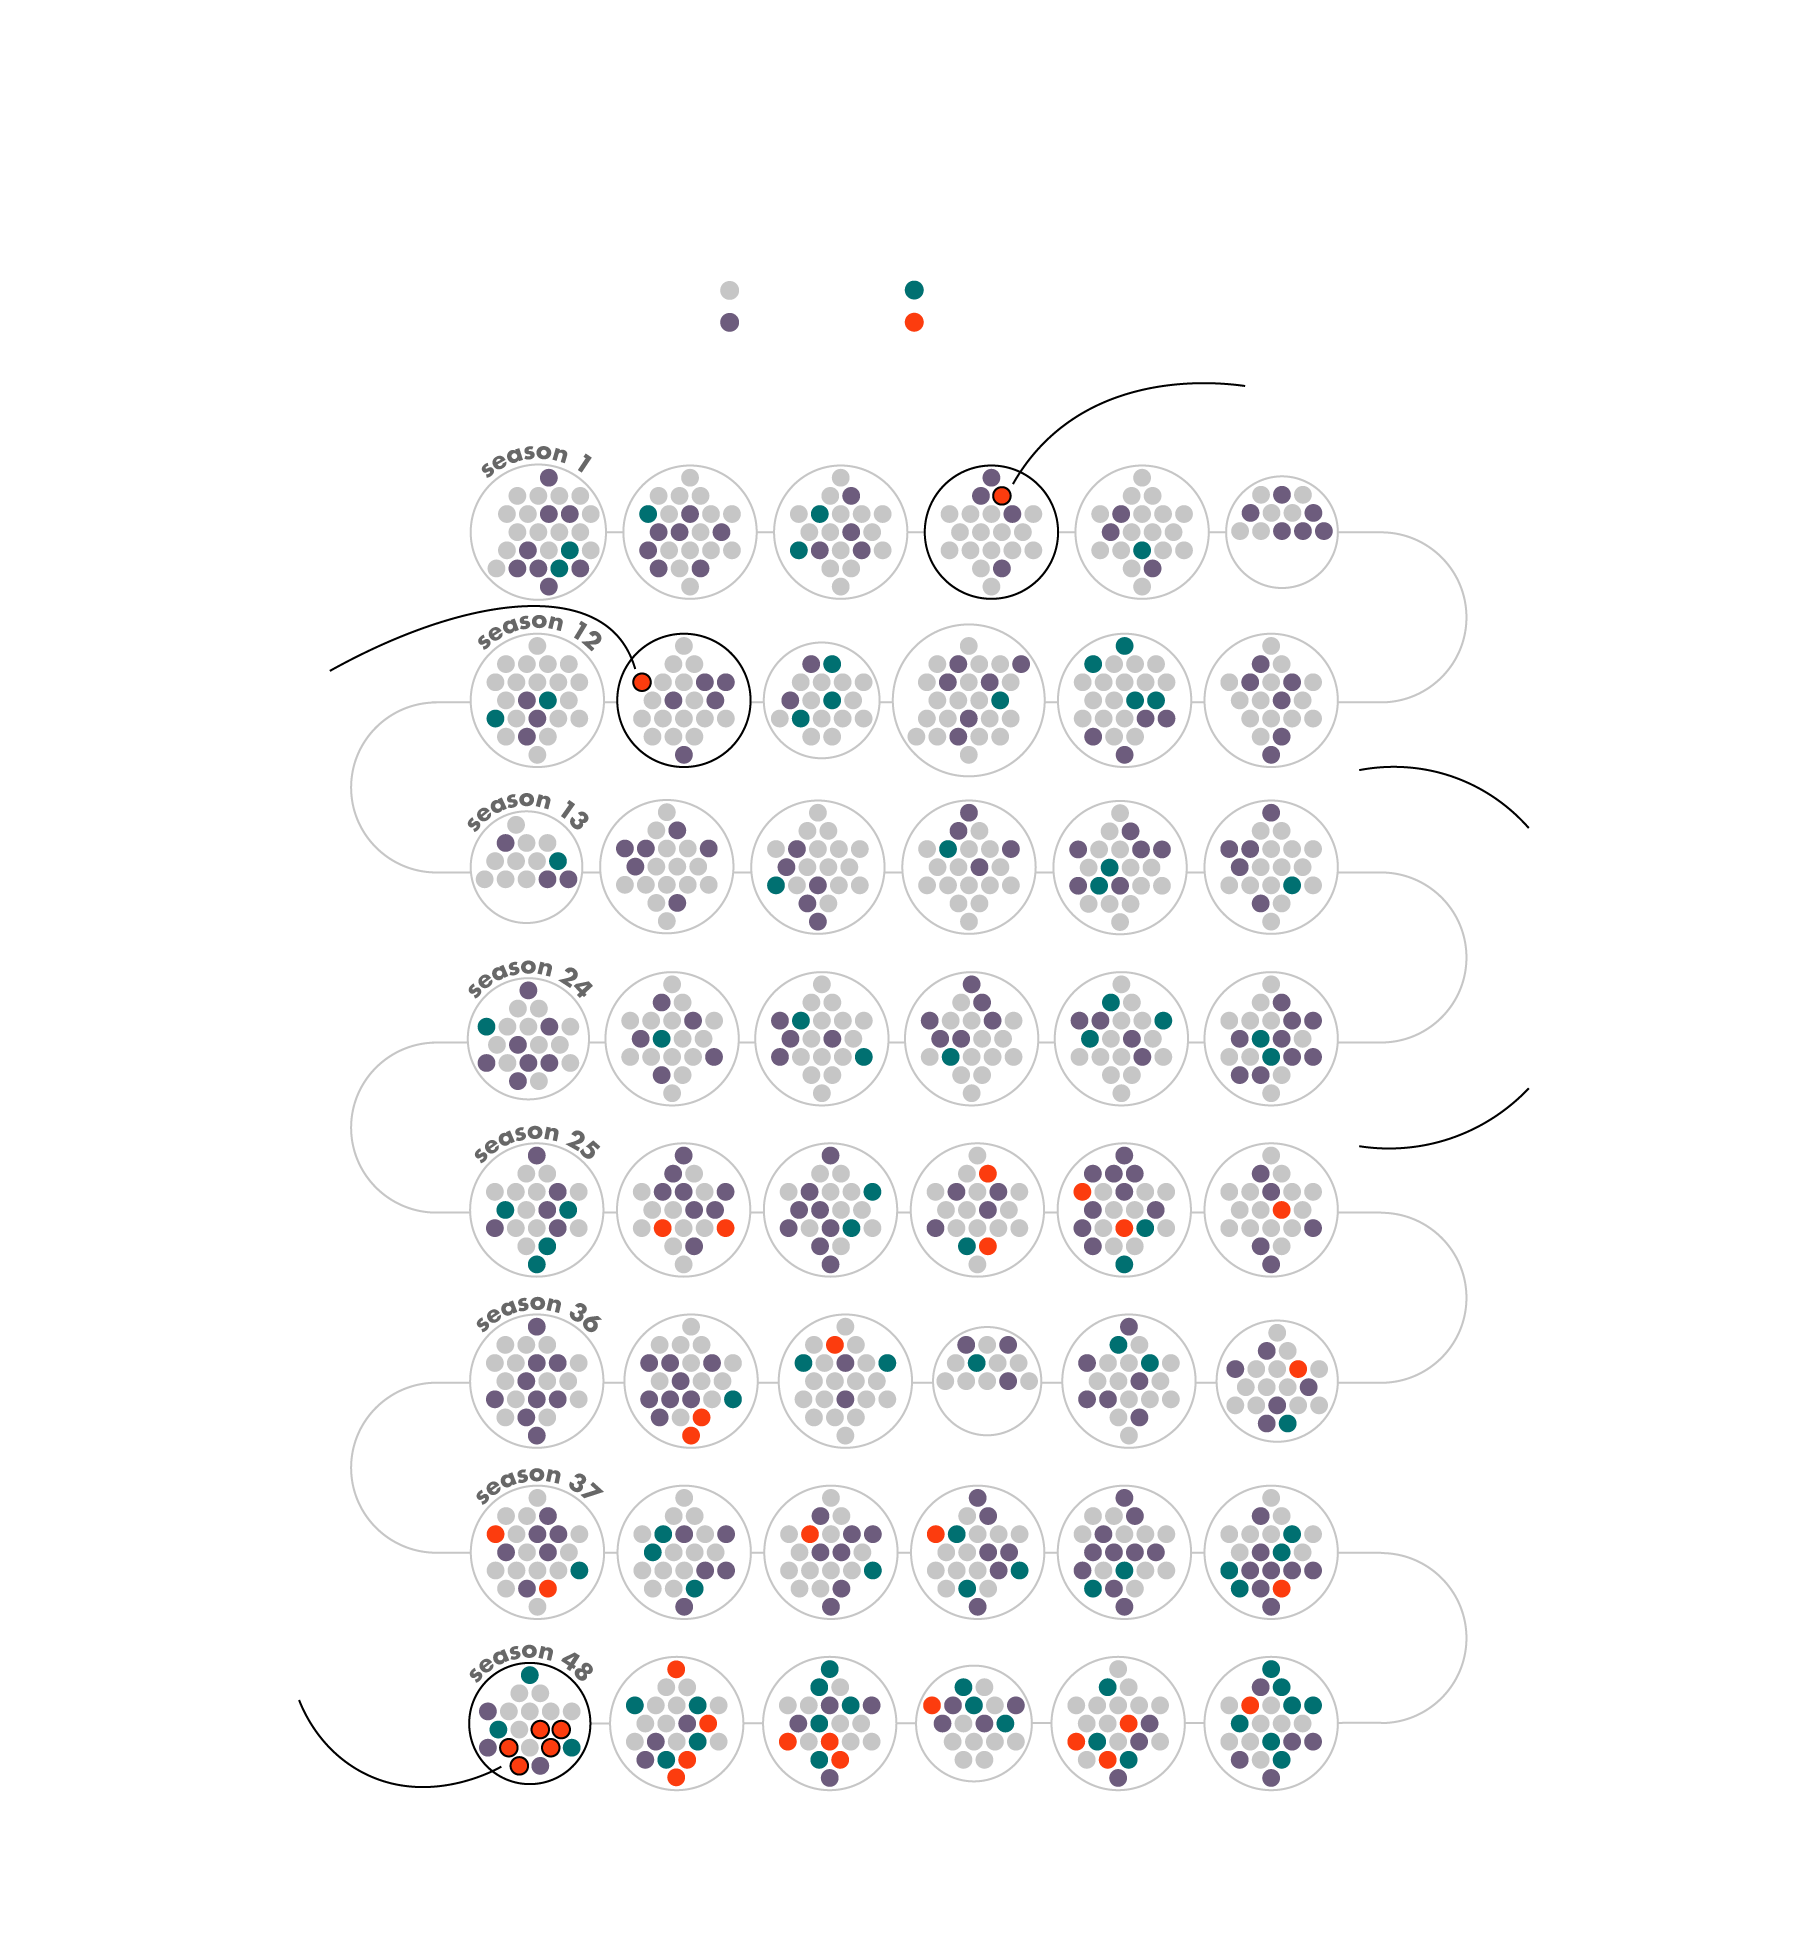
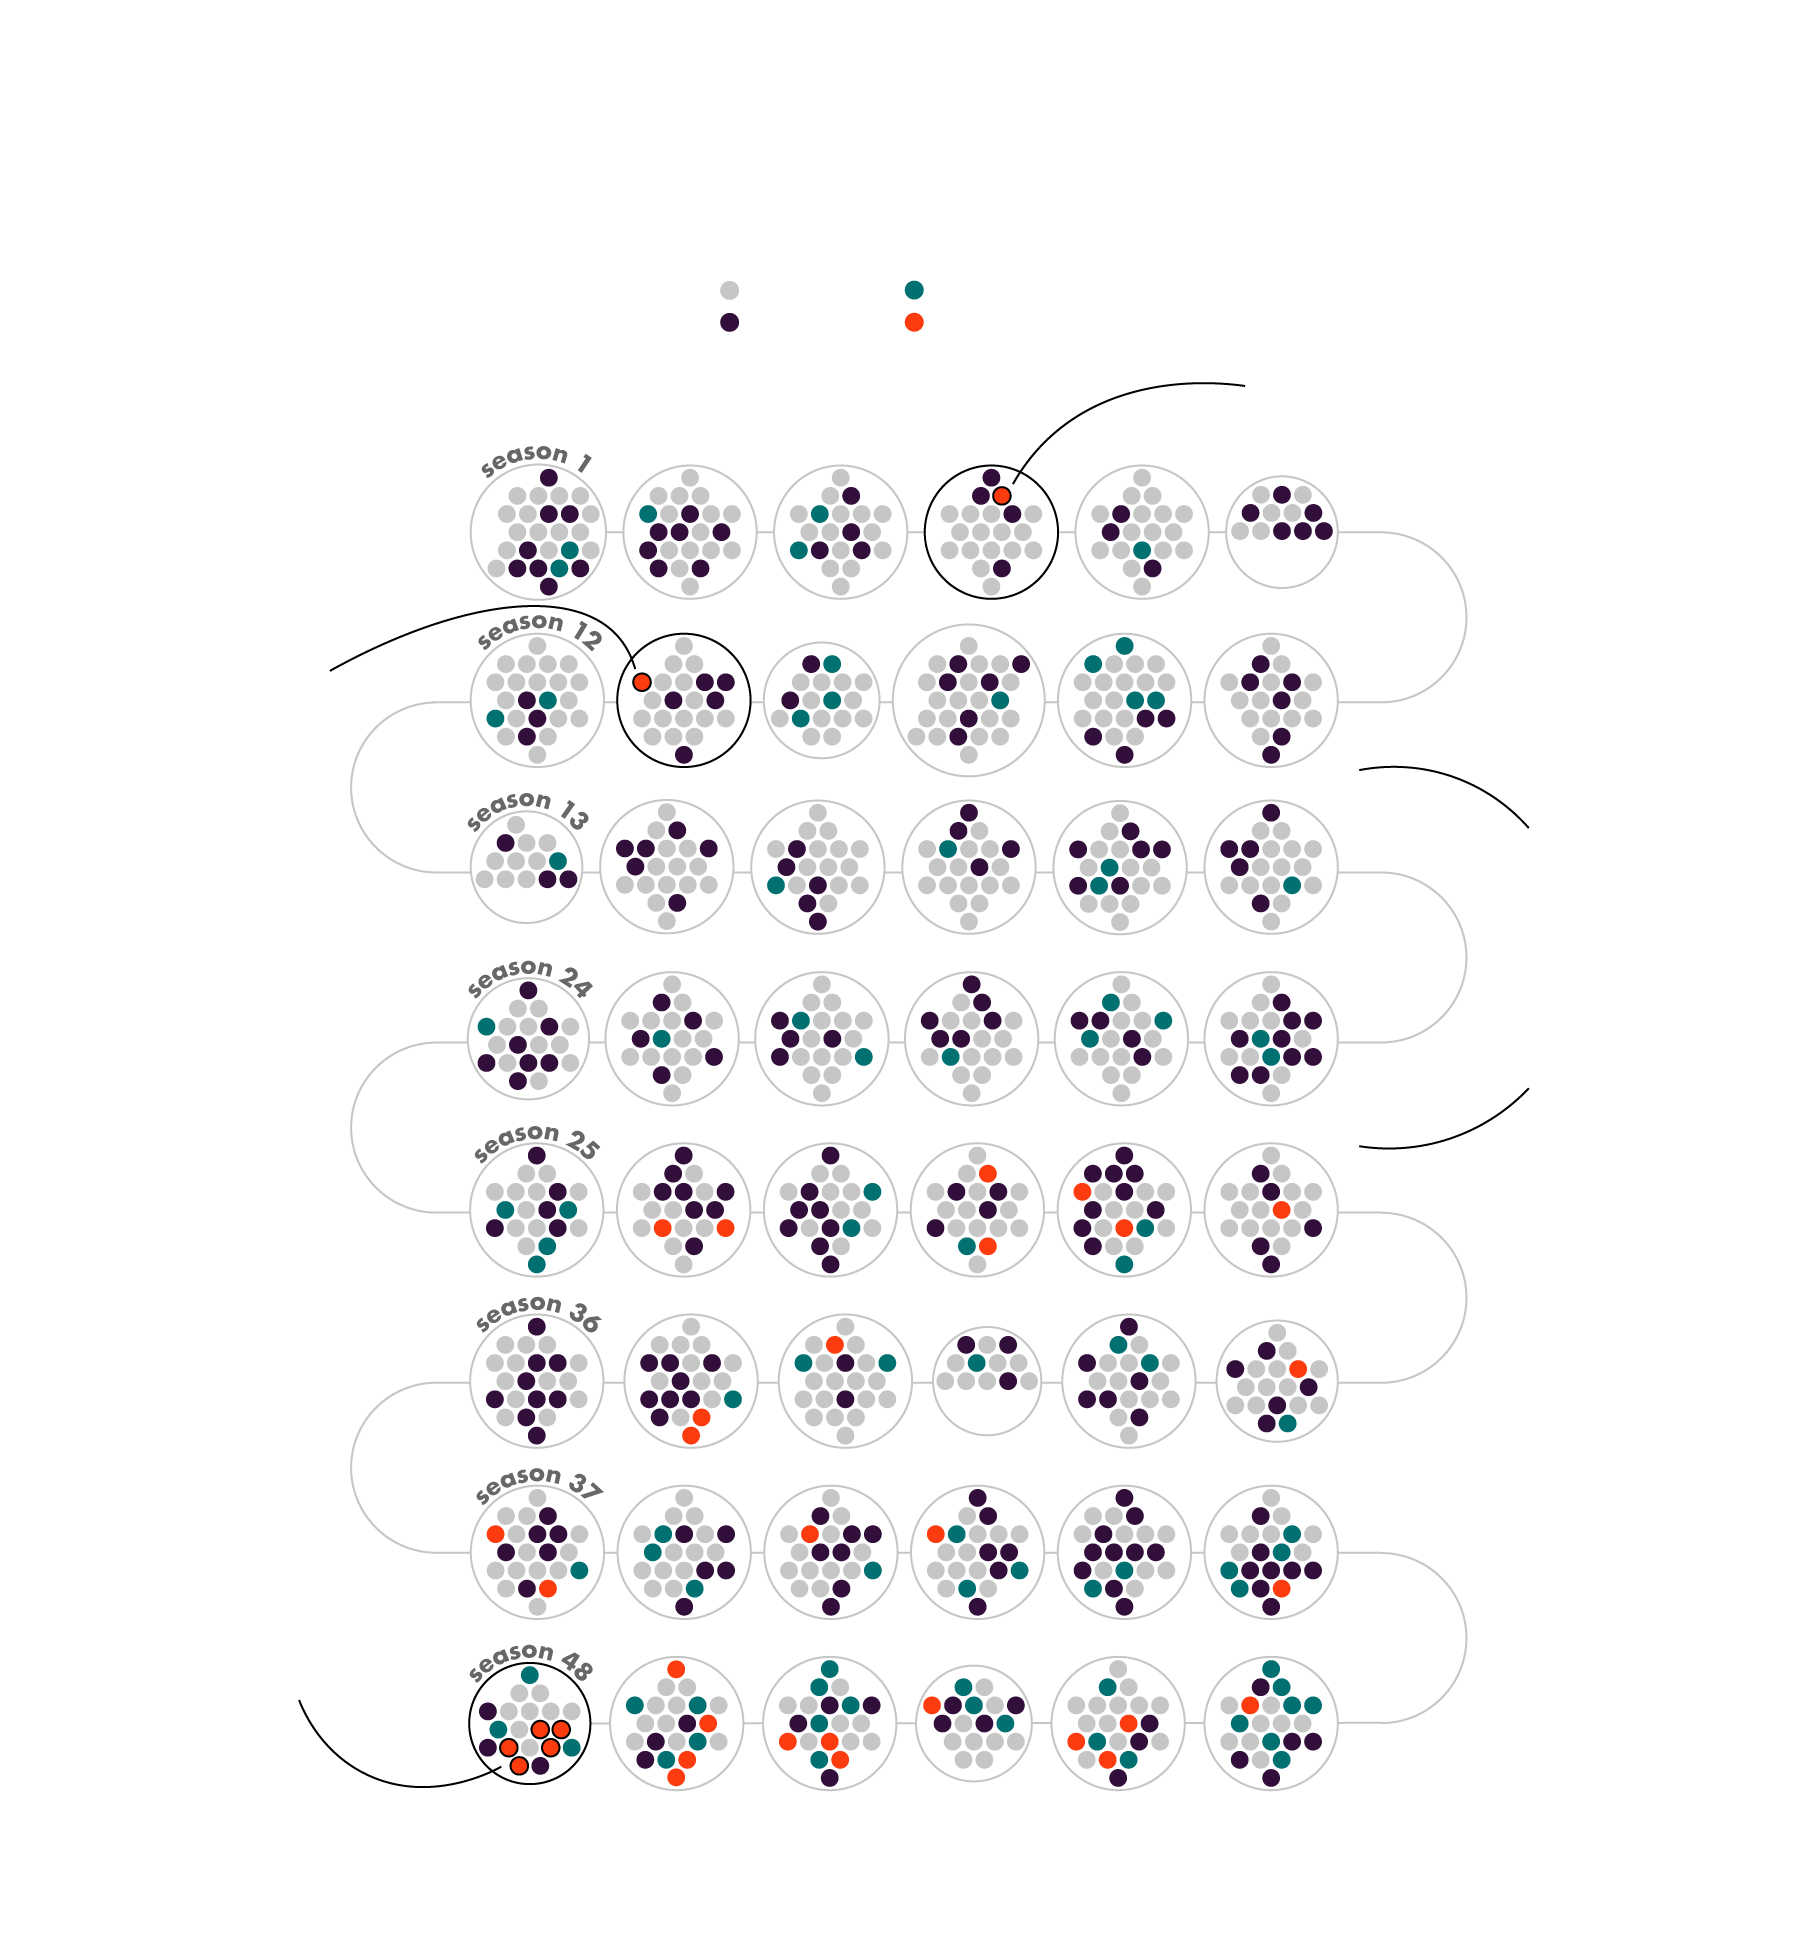
updating colors for color blindness

diff --git a/Untitled-1.html b/Untitled-1.html
@@ -1,0 +1,153 @@
+
+<!-- Generated by ai2html v0.115.5 - 2023-05-31 18:27 -->
+<!-- ai file: snl-hosts.ai -->
+<meta name="viewport" content="width=device-width,initial-scale=1.0"> 
+
+<style media="screen,print">
+	#g-snl-hosts-box ,
+	#g-snl-hosts-box .g-artboard {
+		margin:0 auto;
+	}
+	#g-snl-hosts-box p {
+		margin:0;
+	}
+	#g-snl-hosts-box .g-aiAbs {
+		position:absolute;
+	}
+	#g-snl-hosts-box .g-aiImg {
+		position:absolute;
+		top:0;
+		display:block;
+		width:100% !important;
+	}
+	#g-snl-hosts-box .g-aiSymbol {
+		position: absolute;
+		box-sizing: border-box;
+	}
+	#g-snl-hosts-box .g-aiPointText p { white-space: nowrap; }
+	#g-snl-hosts-mobile_420px {
+		position:relative;
+		overflow:hidden;
+	}
+	#g-snl-hosts-mobile_420px p {
+		font-family: 'Futura';
+		font-weight:500;
+		line-height:11px;
+		height:auto;
+		opacity:1;
+		letter-spacing:0em;
+		font-size:10px;
+		text-align:left;
+		color:rgb(103,103,103);
+		text-transform:none;
+		padding-bottom:0;
+		padding-top:0;
+		mix-blend-mode:normal;
+		font-style:normal;
+		position:static;
+	}
+	#g-snl-hosts-mobile_420px .g-pstyle0 {
+		font-weight:700;
+		line-height:39px;
+		font-size:32px;
+		text-align:center;
+		color:rgb(0,0,0);
+	}
+	#g-snl-hosts-mobile_420px .g-pstyle1 {
+		line-height:12px;
+		text-align:center;
+		color:rgb(0,0,0);
+	}
+	#g-snl-hosts-mobile_420px .g-pstyle2 {
+		line-height:10px;
+		height:10px;
+		font-size:9px;
+		color:rgb(0,0,0);
+	}
+	#g-snl-hosts-mobile_420px .g-pstyle3 {
+		line-height:12px;
+		height:12px;
+		color:rgb(0,0,0);
+	}
+	#g-snl-hosts-mobile_420px .g-pstyle4 {
+		height:11px;
+	}
+	#g-snl-hosts-mobile_420px .g-pstyle5 {
+		color:rgb(0,0,0);
+	}
+	#g-snl-hosts-mobile_420px .g-pstyle6 {
+		line-height:10px;
+		font-size:8px;
+	}
+	#g-snl-hosts-desktop_720px {
+		position:relative;
+		overflow:hidden;
+	}
+	#g-snl-hosts-desktop_720px p {
+		font-family: 'Futura';
+		font-weight:500;
+		line-height:15px;
+		height:auto;
+		opacity:1;
+		letter-spacing:0em;
+		font-size:14px;
+		text-align:left;
+		color:rgb(103,103,103);
+		text-transform:none;
+		padding-bottom:0;
+		padding-top:0;
+		mix-blend-mode:normal;
+		font-style:normal;
+		position:static;
+	}
+	#g-snl-hosts-desktop_720px .g-pstyle0 {
+		font-weight:700;
+		line-height:54px;
+		font-size:45px;
+		text-align:center;
+		color:rgb(0,0,0);
+	}
+	#g-snl-hosts-desktop_720px .g-pstyle1 {
+		line-height:16px;
+		text-align:center;
+		color:rgb(0,0,0);
+	}
+	#g-snl-hosts-desktop_720px .g-pstyle2 {
+		line-height:14px;
+		height:14px;
+		font-size:12px;
+		color:rgb(0,0,0);
+	}
+	#g-snl-hosts-desktop_720px .g-pstyle3 {
+		line-height:14px;
+		height:14px;
+		font-size:12px;
+		text-align:right;
+		color:rgb(0,0,0);
+	}
+	#g-snl-hosts-desktop_720px .g-pstyle4 {
+		height:15px;
+	}
+	#g-snl-hosts-desktop_720px .g-pstyle5 {
+		line-height:11px;
+		color:rgb(0,0,0);
+	}
+	#g-snl-hosts-desktop_720px .g-pstyle6 {
+		line-height:14px;
+		font-size:12px;
+	}
+
+		/* MEDIA QUERIES */
+		#g-snl-hosts-mobile_420px{
+    display: none;
+  }
+
+	@media (max-width: 900px) {
+	#g-snl-hosts-mobile_420px{
+		display: block;
+	}
+
+	#g-snl-hosts-desktop_720px{
+		display: none;
+	}
+	}

diff --git a/snl-viz.html b/snl-viz.html
@@ -328,4 +328,4 @@
 
 </div>
 
-<!-- End ai2html - 2023-05-31 18:45 -->
+<!-- End ai2html - 2023-06-01 18:04 -->